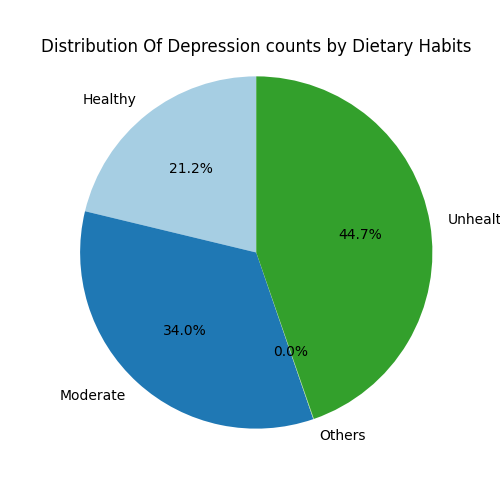
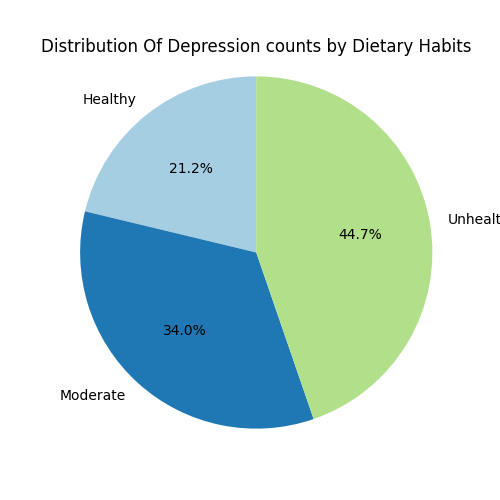
Dropping Dietary Habits-Others value

Changed region(s): [[0.51, 0.15, 0.87, 0.9]]

diff --git a/eda.py b/eda.py
@@ -13,7 +13,7 @@ df.shape
 df['Age'].unique()
 
 #Taking only depressed value and profession as student 
-new_filtered_df = df[(df['Depression'] == 1) & (df['Profession'] == 'Student')]
+new_filtered_df = df[(df['Depression'] == 1) & (df['Profession'] == 'Student') &(df['Dietary Habits']!='Others')]
 
 
 
@@ -144,7 +144,7 @@ financial_grouped = financial_group.groupby('Financial Stress')['Depression'].su
 #Ploting the visualization
 
 fig,fs_ax=plt.subplots()
-financial_grouped.plot(kind='bar',color='lightgreen',width=0.3)
+financial_grouped.plot(kind='bar',color='Darkgreen',width=0.3)
 plt.title('Number of Depressed Individuals by finance')
 plt.xlabel('Financial Stress')
 plt.ylabel('Depressed People Count')
